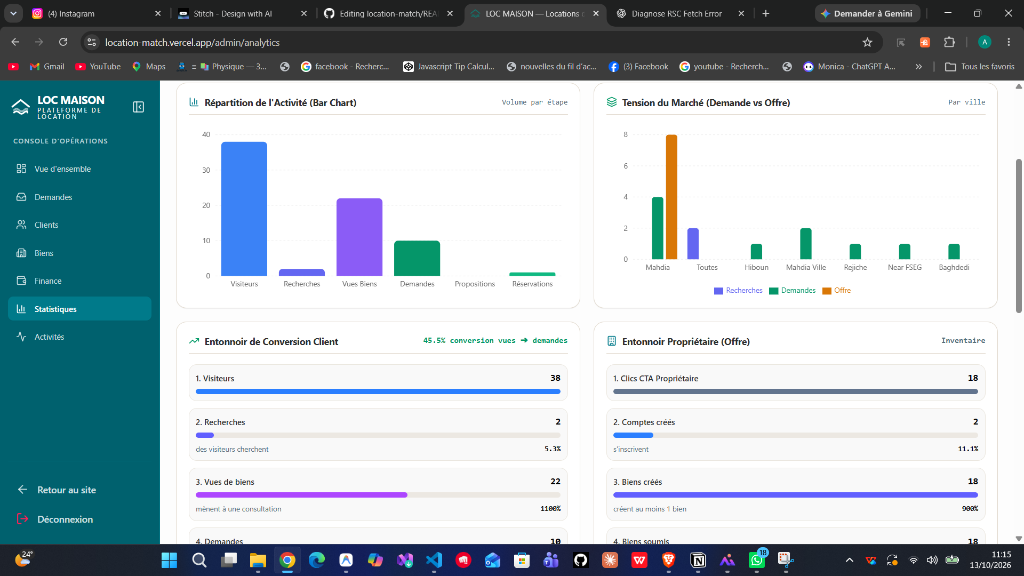
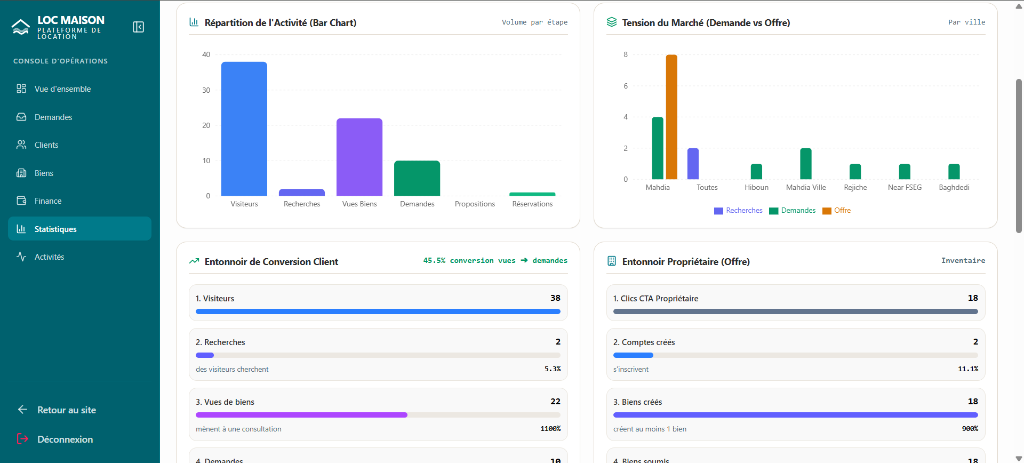
docs: Add clean desktop and mobile UI screenshots with architectural commentary

diff --git a/README.md b/README.md
@@ -18,20 +18,28 @@
 
 ## 📸 Product Preview
 
-### 1. Marketplace Discovery & Structured Search
-Clean real estate discovery experience supporting seasonal vacation houses, student accommodations, and category filters (Villas, Waterfront, Pools).
+### 1. Marketplace Discovery & Mobile Experience
+Clean real estate discovery experience supporting seasonal vacation houses, student accommodations, and category filters (Villas, Waterfront, Pools). Built fully responsive with touch-first controls for mobile users.
 
-![LOC MAISON Homepage](docs/assets/screenshots/homepage-light.png)
+| Desktop (1440px Viewport) | Mobile (390px Viewport) |
+| :---: | :---: |
+| ![LOC MAISON Desktop Homepage](docs/assets/screenshots/homepage-desktop.png) | ![LOC MAISON Mobile Homepage](docs/assets/screenshots/homepage-mobile.png) |
 
-### 2. Operational Admin Console (Dark / Light Theme)
+> 💡 **Design & UX Highlights**: Multi-category filter pills with instant client-side state, localized Tunisian date formatting, and touch-optimized request modals designed for low-friction conversion.
+
+### 2. Operational Admin Console (Dark & Light Mode)
 Real-time administrative operations hub featuring pending listing moderation, open client request dispatching, and two-tier payment verification.
 
 ![Admin Operations Console](docs/assets/screenshots/admin-dashboard-dark.png)
 
+> 💡 **Operational Workflow**: Summarizes high-priority action items into single-click workflows: *"Biens en attente"*, *"Demandes ouvertes"*, and *"Paiements à vérifier"*.
+
 ### 3. Market Intelligence & Conversion Funnels
-Interactive analytics dashboard tracking visitor funnels, supply vs. demand market tension across Tunisian cities (Mahdia, Hiboun, Rejiche), and commission margins.
+Interactive analytics dashboard tracking visitor funnels, supply vs. demand market tension across Tunisian coastal cities (Mahdia, Hiboun, Rejiche), and cumulative platform margins.
 
 ![Admin Analytics and Market Intelligence](docs/assets/screenshots/admin-analytics.png)
+
+> 💡 **Marketplace Analytics**: Correlates tenant search volumes against active landlord inventory to guide geographic marketing and property acquisition.
 
 ---
 
